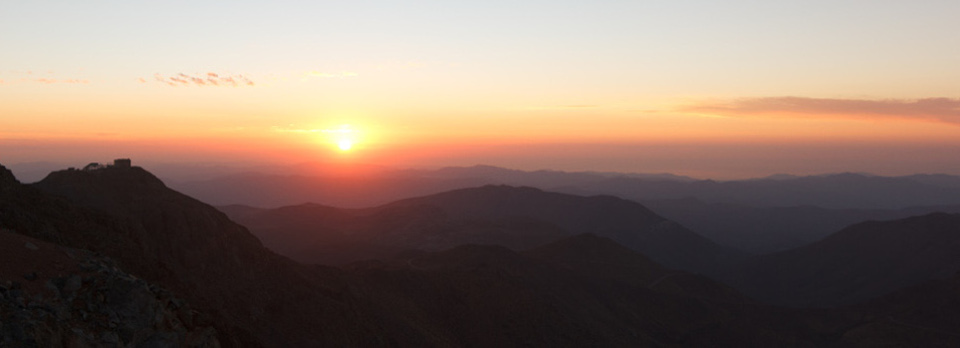
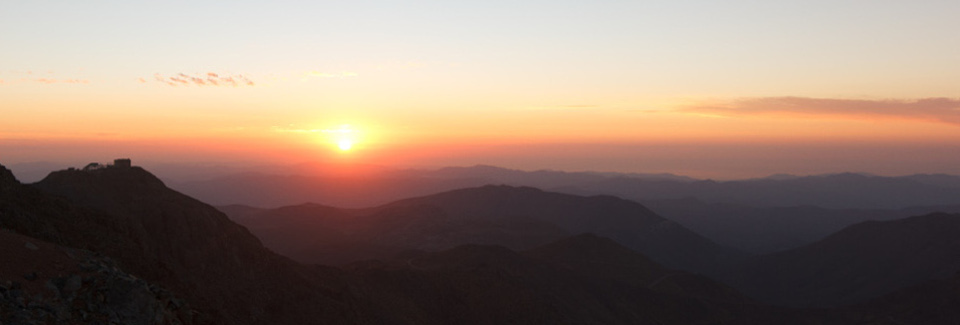
msu green now

Changed region(s): [[0.0, 0.2769, 1.0, 0.7385], [0.1562, 0.2154, 0.25, 0.2769], [0.9062, 0.6154, 1.0, 0.6462]]

diff --git a/inland-wood.css b/inland-wood.css
@@ -65,7 +65,7 @@ b,strong {font-weight:700;}
 #toplinks ul li a:hover{color:#fff;text-decoration:none;}
 
 /* Wood background */
-#toplinks, #content, #footer{background:none;background-color:#1a1a1a;}
+#toplinks, #content, #footer{background:none;background-color:#18453b;}
 
 /* Main navigation menu */
 #nav{float:right;font-family:'Droid Sans',Verdana,Tahoma,sans-serif;text-align:center;}

diff --git a/research.html b/research.html
@@ -29,7 +29,7 @@
 			<ul>
 				<li><a href="index.html"  >Home</a></li>
 
-				<li><a href="soar.html"  >Observing at SOAR Telescope</a></li>
+				<li><a href="observing.html"  >Observing</a></li>
 
 				<li><a href="https://kcdage.github.io/kristen-cv.pdf " type="application/pdf" >Curriculum Vitae</a></li>
 				<li><a href="http://toseethestarsoncemore.blogspot.com/"> Blog </a></li>
